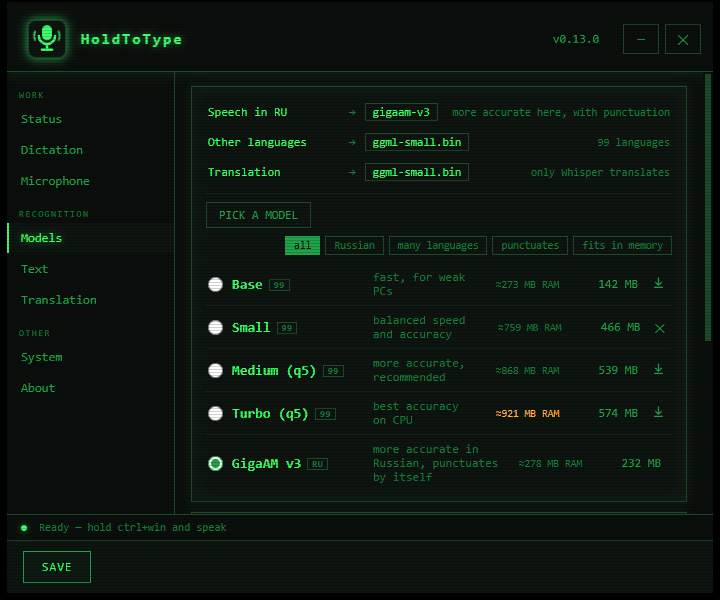
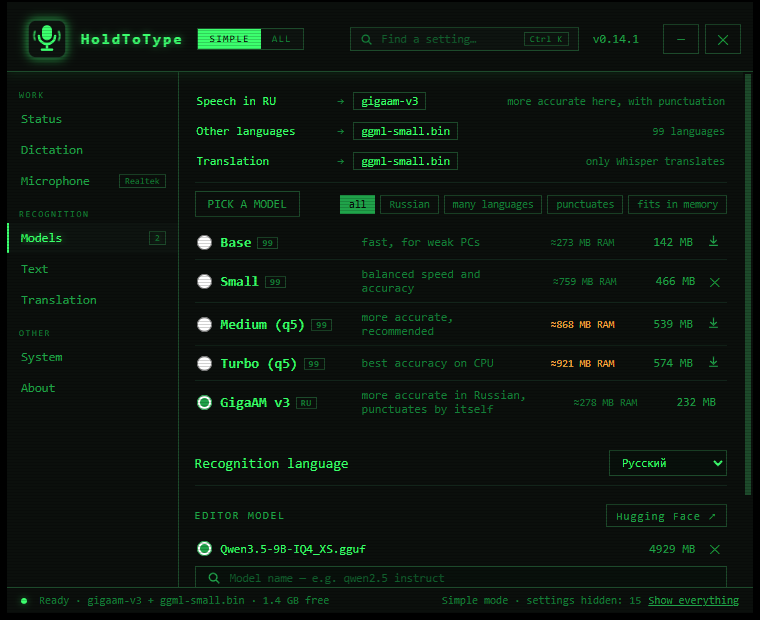
0.14.1: the title bar as designed, and a config that survives editors
The search field and the simple/full switch did not match the design.
The search input was picking up the border and padding of every other
text field on the page — same specificity, later rule wins — so it drew
a box inside a box, with the Ctrl K hint as a third one next to it. Now
it is one strip: magnifier, field, key hint, all inside a single border,
right-aligned before the window buttons, with the SIMPLE/ALL switch next
to the app name where the design puts it. The switch is the designed
size and lights up green when pressed; the status line moved to the far
right and now says what it should in both modes, not only in simple.
Advanced rows revealed inside a section get the left rail from the
design, so it stays visible which rows were folded away.

The dictionary and the profile names had turned into mojibake. The file
had CRLF line endings, which the program never writes, so config.json
had been rewritten by a Windows editor that guessed the encoding wrong
on open and saved UTF-8 over the result. Three defences: the file is now
written with a UTF-8 BOM so no editor has to guess; a load-time repair
undoes exactly that mistake when it finds it, and says so in the log;
and the repaired text is written back so it happens once, not on every
start. The repair only fires when the whole string maps back to valid
UTF-8 — healthy text, mixed text and Latin-1 that is not UTF-8 are left
alone, which is what the new package's tests pin down.
[…]

diff --git a/test/build-page.js b/test/build-page.js
@@ -62,7 +62,7 @@ const strings = {
   updavail: "Version %s available.", updgo: "Update", upderr: "Check failed",
   upddl: "Downloading", micdefault: "System default", micquiet: "quiet",
   more: "%d more settings", less: "Collapse %d settings", hidden: "Simple mode · settings hidden: %d",
-  showall: "Show everything", showsimple: "Back to simple",
+  showall: "Show everything", showsimple: "Back to simple", allshown: "Everything is shown",
 };
 
 let html = src.slice(start, end);

diff --git a/client/settings.go b/client/settings.go
@@ -663,7 +663,7 @@ func settingsHTML(cfg *Config, tab string) string {
 		"upd": "S_UPDATED", "pedit": "S_PROF_EDIT", "pclose": "S_PROF_CLOSE",
 		"confirmdel": "S_CONFIRM_DEL", "free": "S_FREE", "updnone": "S_UPD_NONE",
 		"micdefault": "S_MIC_DEFAULT", "micquiet": "S_MIC_QUIET",
-		"more": "S_MORE", "less": "S_LESS", "hidden": "S_HIDDEN", "showall": "S_SHOWALL", "showsimple": "S_SHOWSIMPLE",
+		"more": "S_MORE", "less": "S_LESS", "hidden": "S_HIDDEN", "allshown": "S_ALLSHOWN", "showall": "S_SHOWALL", "showsimple": "S_SHOWSIMPLE",
 		"updavail": "S_UPD_AVAIL", "updgo": "S_UPD_GO", "upderr": "S_UPD_ERR", "upddl": "S_UPD_DL",
 	} {
 		lMap[jsKey] = str(sKey)
@@ -697,7 +697,7 @@ button.cap.close:hover{background:#3c1212;color:#ff7b6b;border-color:#7a2e2e;box
 .logo{width:40px;height:40px;flex:none}
 .logo svg{width:100%;height:100%;filter:drop-shadow(0 0 5px rgba(60,255,110,.7))}
 .header h1{font-size:15px;letter-spacing:2px;text-shadow:var(--glow);animation:flicker 6s infinite}
-.header .ver{margin-left:auto;font-size:12px;color:var(--dim)}
+.header .ver{font-size:12px;color:var(--dim);flex:none}
 @keyframes flicker{0%,93%,97%,100%{opacity:1}95%{opacity:.6}}
 @keyframes pulse{0%,100%{opacity:.35;transform:scale(.94)}50%{opacity:1;transform:scale(1)}}
 .wave{animation:pulse 1.6s infinite}
@@ -722,18 +722,23 @@ button.cap.close:hover{background:#3c1212;color:#ff7b6b;border-color:#7a2e2e;box
 .statusbar{border-top:1px solid var(--line);padding:6px 14px;display:flex;gap:12px;align-items:center;font-size:11px;color:var(--faint);flex-wrap:wrap}
 .statusbar .led{width:6px;height:6px;border-radius:50%;background:var(--faint);flex:none}
 .statusbar .led.on{background:var(--green);box-shadow:var(--glow)}
-.statusbar .stpend{margin-left:auto;color:var(--amber)}
+.statusbar .stpend{color:var(--amber)}
+.statusbar .stlvl{margin-left:auto;display:flex;align-items:center;gap:7px}
 .statusbar .stsaved{color:var(--dim)}
-.omni{margin-left:auto;display:flex;align-items:center;gap:7px;border:1px solid var(--line);padding:3px 8px;background:#08100b;min-width:min(230px,32%)}
-.omni input{flex:1;min-width:0;background:none;border:0;outline:none;color:var(--green);font:inherit;font-size:11.5px;padding:0}
+.omni{margin-left:auto;display:flex;align-items:center;gap:8px;flex:none;border:1px solid var(--line);background:var(--panel);padding:4px 9px;min-width:min(270px,32%)}
+.omni:focus-within{border-color:var(--dim);box-shadow:var(--glow)}
+.omni input[type=text]{flex:1;min-width:0;width:auto;background:none;border:0;box-shadow:none;outline:none;color:var(--green);font:inherit;font-size:11.5px;padding:0}
+.omni input[type=text]:focus{border:0;box-shadow:none}
 .omni input::placeholder{color:var(--faint)}
-.omni .omag{color:var(--faint);font-size:12px}
-.omni .okey{font-size:9px;color:var(--faint);border:1px solid var(--line);padding:0 4px}
-.lvlsw{display:flex;border:1px solid var(--line);flex:none}
-.lvlb{appearance:none;border:0;background:none;color:var(--faint);font:inherit;font-size:9.5px;letter-spacing:.1em;text-transform:uppercase;padding:3px 9px;cursor:pointer}
+.omni svg{flex:none;color:var(--faint)}
+.omni:focus-within svg{color:var(--dim)}
+.omni .okey{flex:none;font-size:9px;letter-spacing:.06em;color:var(--faint);border:1px solid var(--line);padding:1px 5px}
+.lvlsw{display:flex;flex:none;border:1px solid var(--line);background:var(--panel)}
+.lvlb{appearance:none;border:0;background:none;color:var(--faint);font:inherit;font-size:10px;letter-spacing:.12em;text-transform:uppercase;padding:4px 11px;cursor:pointer}
 .lvlb:hover{color:var(--dim)}
-.lvlb.on{background:var(--dim);color:#08100b}
+.lvlb.on{background:var(--green);color:var(--bg);text-shadow:none}
 .row.hidden{display:none}
+.page.advopen .row[data-adv]{border-left:2px solid var(--line);padding-left:9px;margin-left:-11px}
 .row.hit{background:#101d14;box-shadow:inset 2px 0 0 var(--green)}
 .moreb{appearance:none;background:none;border:1px dashed var(--line);color:var(--faint);font:inherit;font-size:11px;padding:6px 10px;margin:6px 0 0;cursor:pointer}
 .moreb:hover{color:var(--dim);border-color:var(--dim)}
@@ -888,11 +893,11 @@ button.iconbtn.danger:hover{color:#ff7b6b;filter:drop-shadow(0 0 4px rgba(255,11
   </g>
  </svg></div>
  <h1>{{APP}}</h1>
- <label class="omni"><span class="omag">&#9906;</span><input id="omni" type="text" placeholder="{{S_SEARCH}}" autocomplete="off"><span class="okey">Ctrl K</span></label>
  <span class="lvlsw">
   <button type="button" class="lvlb" data-l="simple">{{S_LVL_SIMPLE}}</button>
   <button type="button" class="lvlb" data-l="all">{{S_LVL_ALL}}</button>
  </span>
+ <label class="omni"><svg width="13" height="13" viewBox="0 0 24 24" fill="none" stroke="currentColor" stroke-width="2.4"><circle cx="10.5" cy="10.5" r="6.5"/><line x1="15.5" y1="15.5" x2="21" y2="21"/></svg><input id="omni" type="text" placeholder="{{S_SEARCH}}" autocomplete="off"><span class="okey">Ctrl K</span></label>
  <span class="ver">v<span id="ver"></span></span>
  <div class="capbtns">
   <button class="cap" onclick="appMin()">&#9472;</button>
@@ -1133,9 +1138,8 @@ button.iconbtn.danger:hover{color:#ff7b6b;filter:drop-shadow(0 0 4px rgba(255,11
  <span class="led" id="st_led"></span>
  <span id="st_main">—</span>
  <span class="stsaved" id="st_saved"></span>
- <span class="stlevel" id="st_level"></span>
- <button type="button" class="stlink" id="st_levelbtn"></button>
  <span class="stpend" id="st_pend"></span>
+ <span class="stlvl"><span class="stlevel" id="st_level"></span><button type="button" class="stlink" id="st_levelbtn"></button></span>
 </div>
 
 
@@ -1808,6 +1812,7 @@ function applyLevel(){
   document.querySelectorAll(".lvlb").forEach(b=>b.classList.toggle("on", b.dataset.l === uiLevel));
   document.querySelectorAll(".page").forEach(page=>{
     const show = uiLevel === "all" || opened[page.id];
+    page.classList.toggle("advopen", uiLevel === "simple" && !!opened[page.id]);
     page.querySelectorAll("[data-adv]").forEach(el=>el.classList.toggle("hidden", !show));
     let btn = page.querySelector(".moreb");
     const n = advCount(page);
@@ -1826,7 +1831,7 @@ function applyLevel(){
     btn.textContent = (opened[page.id] ? L.less : L.more).replace("%d", n);
   });
   const line = document.getElementById("st_level");
-  if(line) line.textContent = uiLevel === "simple" ? L.hidden.replace("%d", hiddenTotal()) : "";
+  if(line) line.textContent = uiLevel === "simple" ? L.hidden.replace("%d", hiddenTotal()) : L.allshown;
   const sw = document.getElementById("st_levelbtn");
   if(sw) sw.textContent = uiLevel === "simple" ? L.showall : L.showsimple;
 }

diff --git a/client/config.go b/client/config.go
@@ -1,6 +1,7 @@
 package main
 
 import (
+	"holdtotype/internal/mojibake"
 	"holdtotype/internal/routing"
 
 	"bytes"
@@ -145,6 +146,10 @@ func defaultConfig() *Config {
 
 var saveMu sync.Mutex
 
+func withBOM(out []byte) []byte {
+	return append([]byte{0xEF, 0xBB, 0xBF}, append(out, '\n')...)
+}
+
 func saveConfig(path string, cfg *Config) error {
 	saveMu.Lock()
 	defer saveMu.Unlock()
@@ -153,7 +158,7 @@ func saveConfig(path string, cfg *Config) error {
 		return err
 	}
 	tmp := path + ".tmp"
-	if err := os.WriteFile(tmp, append(out, '\n'), 0o644); err != nil {
+	if err := os.WriteFile(tmp, withBOM(out), 0o644); err != nil {
 		return err
 	}
 	if err := os.Rename(tmp, path); err != nil {
@@ -161,6 +166,22 @@ func saveConfig(path string, cfg *Config) error {
 		return err
 	}
 	return nil
+}
+
+func fixConfigText(cfg *Config) bool {
+	changed := false
+	fix := func(p *string) {
+		if v := mojibake.Fix(*p); v != *p {
+			*p = v
+			changed = true
+		}
+	}
+	fix(&cfg.WhisperPrompt)
+	for i := range cfg.Profiles {
+		fix(&cfg.Profiles[i].Name)
+		fix(&cfg.Profiles[i].Prompt)
+	}
+	return changed
 }
 
 func loadConfig(path string) (*Config, error) {
@@ -197,6 +218,10 @@ func loadConfig(path string) (*Config, error) {
 		return cfg, nil
 	}
 	migrated := fileConfigVersion(data) != configVersion
+	if fixConfigText(cfg) {
+		log.Printf("конфигурация: текст был испорчен сторонним редактором — кодировка восстановлена")
+		migrated = true
+	}
 	if cfg.PasteMode != "clipboard" && cfg.PasteMode != "type" {
 		cfg.PasteMode = "clipboard"
 	}

diff --git a/client/internal/mojibake/mojibake_test.go b/client/internal/mojibake/mojibake_test.go
@@ -1,0 +1,66 @@
+package mojibake
+
+import "testing"
+
+func mangle(s string) string {
+	inv := map[byte]rune{}
+	for r, b := range cp1252 {
+		inv[b] = r
+	}
+	out := make([]rune, 0, len(s))
+	for _, b := range []byte(s) {
+		if r, ok := inv[b]; ok {
+			out = append(out, r)
+			continue
+		}
+		out = append(out, rune(b))
+	}
+	return string(out)
+}
+
+func TestFixUndoesAnEditorsMistake(t *testing.T) {
+	for _, want := range []string{
+		"Чистка речи",
+		"Словарь, термины и сокращения",
+		"für Größe",
+		"тире — и «кавычки»",
+	} {
+		t.Run(want, func(t *testing.T) {
+			in := mangle(want)
+			if in == want {
+				t.Fatalf("test data is not mangled: %q", in)
+			}
+			if got := Fix(in); got != want {
+				t.Fatalf("Fix(%q) = %q, want %q", in, got, want)
+			}
+		})
+	}
+}
+
+func TestFixLeavesHealthyTextAlone(t *testing.T) {
+	for _, s := range []string{
+		"",
+		"Whisper, Docker, Go",
+		"Чистка речи",
+		"тире — и «кавычки»",
+		"Чистка Ð§Ð¸",
+		"Café",
+		"für Größe",
+	} {
+		t.Run(s, func(t *testing.T) {
+			if got := Fix(s); got != s {
+				t.Fatalf("Fix(%q) = %q, want it unchanged", s, got)
+			}
+		})
+	}
+}
+
+func TestFixIsStableOnRepairedText(t *testing.T) {
+	once := Fix(mangle("Словарь"))
+	if once != "Словарь" {
+		t.Fatalf("first pass = %q", once)
+	}
+	if twice := Fix(once); twice != once {
+		t.Fatalf("second pass changed the text: %q", twice)
+	}
+}

diff --git a/client/internal/mojibake/mojibake.go b/client/internal/mojibake/mojibake.go
@@ -1,0 +1,44 @@
+package mojibake
+
+import "unicode/utf8"
+
+var cp1252 = map[rune]byte{
+	0x20AC: 0x80, 0x201A: 0x82, 0x0192: 0x83, 0x201E: 0x84, 0x2026: 0x85,
+	0x2020: 0x86, 0x2021: 0x87, 0x02C6: 0x88, 0x2030: 0x89, 0x0160: 0x8A,
+	0x2039: 0x8B, 0x0152: 0x8C, 0x017D: 0x8E, 0x2018: 0x91, 0x2019: 0x92,
+	0x201C: 0x93, 0x201D: 0x94, 0x2022: 0x95, 0x2013: 0x96, 0x2014: 0x97,
+	0x02DC: 0x98, 0x2122: 0x99, 0x0161: 0x9A, 0x203A: 0x9B, 0x0153: 0x9C,
+	0x017E: 0x9E, 0x0178: 0x9F,
+}
+
+func isASCII(s string) bool {
+	for i := 0; i < len(s); i++ {
+		if s[i] >= 0x80 {
+			return false
+		}
+	}
+	return true
+}
+
+func Fix(s string) string {
+	if isASCII(s) {
+		return s
+	}
+	buf := make([]byte, 0, len(s))
+	for _, r := range s {
+		if r <= 0xFF {
+			buf = append(buf, byte(r))
+			continue
+		}
+		b, ok := cp1252[r]
+		if !ok {
+			return s
+		}
+		buf = append(buf, b)
+	}
+	out := string(buf)
+	if out == s || isASCII(out) || !utf8.ValidString(out) {
+		return s
+	}
+	return out
+}

diff --git a/client/i18n.go b/client/i18n.go
@@ -408,6 +408,7 @@ var settingsStrings = map[string]map[string]string{
 		"S_MORE":           "Ещё %d настроек",
 		"S_LESS":           "Свернуть %d настроек",
 		"S_HIDDEN":         "Простой режим · скрыто настроек: %d",
+		"S_ALLSHOWN":       "Показаны все настройки",
 		"S_SHOWALL":        "Показать всё",
 		"S_SHOWSIMPLE":     "Вернуть простой режим",
 		"S_HOTMODE":        "Режим",
@@ -702,6 +703,7 @@ var settingsStrings = map[string]map[string]string{
 		"S_MORE":           "%d more settings",
 		"S_LESS":           "Collapse %d settings",
 		"S_HIDDEN":         "Simple mode · settings hidden: %d",
+		"S_ALLSHOWN":       "Everything is shown",
 		"S_SHOWALL":        "Show everything",
 		"S_SHOWSIMPLE":     "Back to simple",
 		"S_HOTMODE":        "Mode",

diff --git a/client/internal/appid/appid.go b/client/internal/appid/appid.go
@@ -23,7 +23,7 @@ const (
 	LLMAlias = Slug + "-local"
 )
 
-var Version = "0.14.0"
+var Version = "0.14.1"
 
 func Class(suffix string) string { return Name + suffix }
 
